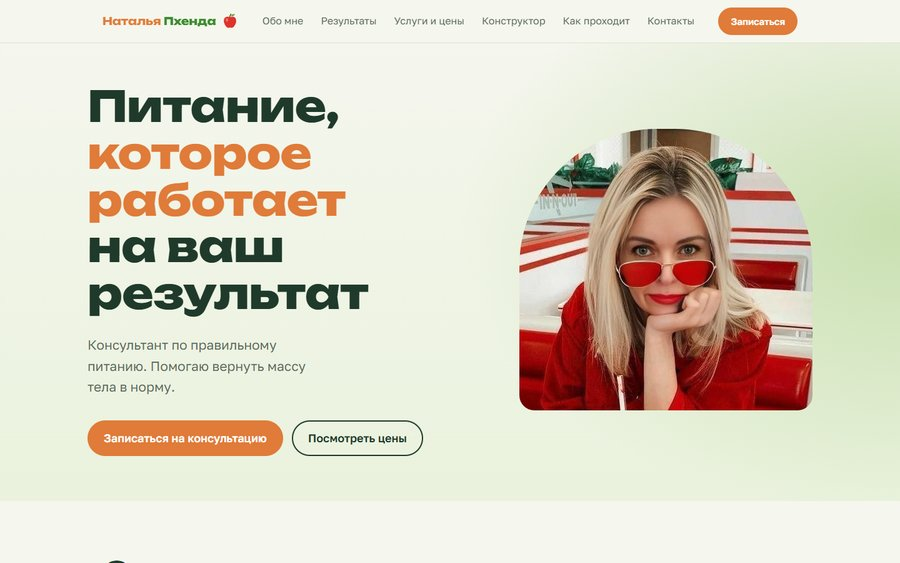
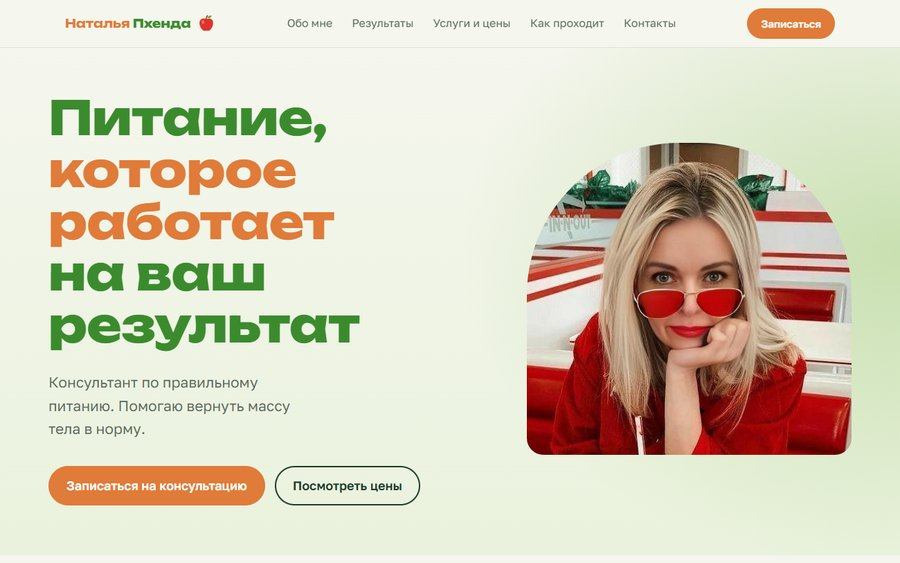
Наталья: зелёные заголовки, без конструктора

diff --git a/natalya-pitanie/index.html b/natalya-pitanie/index.html
@@ -36,6 +36,9 @@ img{display:block;max-width:100%}
 a{color:inherit}
 :focus-visible{outline:3px solid var(--red);outline-offset:3px;border-radius:4px}
 h1,h2,h3{font-family:"Unbounded",sans-serif;line-height:1.1;letter-spacing:-.01em}
+h1,h2,h3{color:var(--water)}
+.services h2,.services h3,.pillar.swim h3,.pillar.swim .big{color:#fff}
+.pillar.swim p{font-weight:600}
 .wrap{max-width:1160px;margin:0 auto;padding:0 24px}
 
 
@@ -131,7 +134,7 @@ footer{padding:40px 0 56px;color:var(--muted);font-size:15px;text-align:center}
 @media (max-width:900px){.choice-points{grid-template-columns:1fr;gap:20px}}
 /* тарелки */
 .pool-band{height:clamp(240px,32vw,400px);background:url(img/greens.jpg) right center/cover;position:relative;display:flex;align-items:center}
-.pool-band p{font-family:"Unbounded";font-weight:700;color:var(--deep);font-size:clamp(20px,3vw,38px);line-height:1.15;max-width:14ch}
+.pool-band p{font-family:"Unbounded";font-weight:700;color:var(--water);font-size:clamp(20px,3vw,38px);line-height:1.15;max-width:14ch}
 .quote cite{display:block;font-style:normal;color:var(--muted);font-size:16px;max-width:32ch;margin-top:14px}
 @media (max-width:560px){.pool-band{background-position:62% center}.quote{background:rgba(245,246,238,.9);padding:14px 16px;border-radius:16px}.pool-band p{}}
 .plates{display:grid;grid-template-columns:repeat(3,1fr);gap:24px}
@@ -218,7 +221,6 @@ footer{padding:40px 0 56px;color:var(--muted);font-size:15px;text-align:center}
       <li><a href="#about">Обо мне</a></li>
       <li><a href="#results">Результаты</a></li>
       <li><a href="#services">Услуги и цены</a></li>
-      <li><a href="#calc">Конструктор</a></li>
       <li><a href="#steps">Как проходит</a></li>
       <li><a href="#contact">Контакты</a></li>
     </ul>
@@ -314,50 +316,6 @@ footer{padding:40px 0 56px;color:var(--muted);font-size:15px;text-align:center}
     </div>
   </section>
 
-  <section id="calc">
-    <div class="wrap">
-      <h2>Конструктор правильного питания</h2>
-      <p class="sub">Укажите свои данные и цель - конструктор посчитает калории, белки, жиры и углеводы на день и разложит их по приёмам пищи.</p>
-      <div class="calc">
-        <form class="cform" id="calcForm" onsubmit="return false">
-          <div class="field"><span>Пол</span><div class="seg">
-            <input type="radio" name="sex" id="sf" value="f" checked><label for="sf">Женщина</label>
-            <input type="radio" name="sex" id="sm" value="m"><label for="sm">Мужчина</label></div></div>
-          <div class="field nums">
-            <div><label class="t" for="age">Возраст</label><input id="age" type="number" inputmode="numeric" value="35" min="18" max="90"></div>
-            <div><label class="t" for="height">Рост, см</label><input id="height" type="number" inputmode="numeric" value="165" min="120" max="220"></div>
-            <div><label class="t" for="weight">Вес, кг</label><input id="weight" type="number" inputmode="numeric" value="70" min="35" max="200"></div>
-          </div>
-          <div class="field"><label class="t" for="act">Активность</label>
-            <select id="act">
-              <option value="1.2">Сидячая работа, без спорта</option>
-              <option value="1.375" selected>Прогулки и 1-2 тренировки в неделю</option>
-              <option value="1.55">3-4 тренировки в неделю</option>
-              <option value="1.725">Тренировки почти каждый день</option>
-            </select></div>
-          <div class="field"><span>Цель</span><div class="seg">
-            <input type="radio" name="goal" id="gl" value="lose" checked><label for="gl">Снизить вес</label>
-            <input type="radio" name="goal" id="gk" value="keep"><label for="gk">Держать форму</label>
-            <input type="radio" name="goal" id="gg" value="gain"><label for="gg">Набрать массу</label></div></div>
-        </form>
-        <div class="cres" aria-live="polite">
-          <div class="plate">
-            <div class="ring"><svg viewBox="0 0 200 200" width="200" height="200"><circle cx="100" cy="100" r="67" fill="none" stroke="rgba(255,255,255,.1)" stroke-width="26"/><g id="arcs"></g></svg>
-              <div class="c"><b id="kcal">0</b><small>ккал в день</small></div></div>
-            <ul class="macro">
-              <li><i style="background:#E07B39"></i>Белки<strong id="pG">0 г</strong></li>
-              <li><i style="background:#9BC46A"></i>Жиры<strong id="fG">0 г</strong></li>
-              <li><i style="background:#F3EFD9"></i>Углеводы<strong id="cG">0 г</strong></li>
-            </ul>
-          </div>
-          <div id="meals" style="margin-top:22px"></div>
-          <p class="hint" id="hint"></p>
-          <a class="btn btn-max" href="https://max.ru/u/f9LHodD0cOKcQLD5IvwV6MmBE0FpVHgSipIQDiamH0slKDxpP-LSldkRE8s" target="_blank" rel="noopener"><svg viewBox="0 0 24 24" aria-hidden="true"><path fill="#fff" d="M12 2.5c-5.3 0-9.5 3.9-9.5 8.9 0 2.6 1.2 5 3.1 6.6l-.6 3.5 3.5-1.8c1.1.4 2.3.6 3.5.6 5.3 0 9.5-3.9 9.5-8.9S17.3 2.5 12 2.5z"/></svg>Записаться на консультацию</a>
-        </div>
-      </div>
-    </div>
-  </section>
-
   <section id="steps">
     <div class="wrap">
       <h2>Как проходит работа</h2>
@@ -396,28 +354,5 @@ footer{padding:40px 0 56px;color:var(--muted);font-size:15px;text-align:center}
 </main>
 
 <footer>© 2026 Наталья Пхенда, консультант по правильному питанию. Консультации для взрослых от 18 лет и не заменяют приём врача.</footer>
-<script>
-const $=q=>document.querySelector(q);
-const num=v=>Math.round(v).toLocaleString('ru-RU');
-function calc(){
-  const sex=document.querySelector('[name=sex]:checked').value, goal=document.querySelector('[name=goal]:checked').value;
-  const age=Math.max(18,+$('#age').value||35), h=+$('#height').value||165, w=+$('#weight').value||70, act=+$('#act').value;
-  const bmr=10*w+6.25*h-5*age+(sex==='m'?5:-161);
-  const kcal=Math.round(bmr*act*{lose:.85,keep:1,gain:1.1}[goal]/10)*10;
-  const p=w*{lose:1.6,keep:1.3,gain:1.8}[goal], f=w*.9, c=Math.max(0,(kcal-p*4-f*9)/4);
-  $('#kcal').textContent=num(kcal);
-  $('#pG').textContent=Math.round(p)+' г';$('#fG').textContent=Math.round(f)+' г';$('#cG').textContent=Math.round(c)+' г';
-  const tot=p*4+f*9+c*4,r=67,L=2*Math.PI*r;let off=0;
-  $('#arcs').innerHTML=[[p*4,"#E07B39"],[f*9,'#9BC46A'],[c*4,'#F3EFD9']].map(([v,col])=>{const len=v/tot*L,o=off;off+=len;
-    return `<circle cx="100" cy="100" r="${r}" fill="none" stroke="${col}" stroke-width="26" stroke-dasharray="${Math.max(len-2,0)} ${L}" stroke-dashoffset="${-o}"/>`}).join('');
-  $('#meals').innerHTML=[['Завтрак',.25],['Обед',.35],['Перекус',.1],['Ужин',.3]].map(([n,k])=>`<div class="meal"><span>${n}</span><span class="track"><i style="width:${k/.35*100}%"></i></span><em>${num(kcal*k)} ккал</em></div>`).join('');
-  const bmi=(w/((h/100)**2)).toFixed(1).replace('.',',');
-  $('#hint').textContent={lose:`Мягкий дефицит 15% - около ${(w*.005).toFixed(1).replace('.',',')} кг в неделю. Так вес уходит без голода и не возвращается.`,
-    keep:`Индекс массы тела ${bmi}. Держим калории и следим, чтобы белка хватало каждый день.`,
-    gain:`Профицит 10% и белок ${Math.round(p)} г в день - так растут мышцы, а не жир. Без силовых тренировок не сработает.`}[goal];
-}
-document.querySelectorAll('#calcForm input,#calcForm select').forEach(i=>i.addEventListener('input',calc));
-calc();
-</script>
 </body>
 </html>
